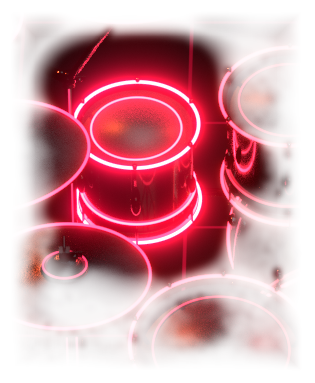
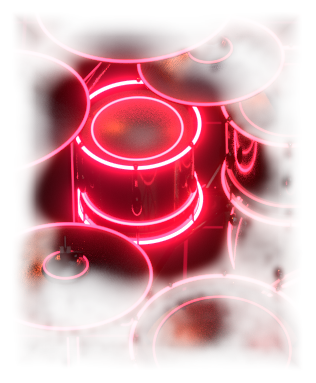
Release 0.89.0: the cymbals nearer the reference kit, CRASH 6, glowing boom arms
The owner compared the kit view with the reference picture and chose,
from mock-ups: every cymbal higher and tipped about 4 degrees towards the
drummer (the half tilt), crashes 4 and 5 moved in so the top reads as one
arc and mirrored exactly, each 6 cm above the crash beside it (a lower
outer crash would have sat on crash 1), the top row a little lower than
first drawn, the splash beside tom 1, and a 15" CRASH 6 top centre (the
C6 slot, zone 32, its own glow). Every cymbal stand's boom arm gets the
same neon strip as its lower tube.

kit3d.py / regions.py / process_assets.py know crash6; every picture was
rendered again. KitView::numPieces 22. KitViewTests check slot 32 is on
the kit and its own piece. Snapshot PARAGON_SNAPSHOT_KIT=5.

Claude-Session: https://claude.ai/code/session_01DkHHwE8pZtGpq78Kkzjpto

diff --git a/resources/kit/kit3d.py b/resources/kit/kit3d.py
@@ -478,22 +478,29 @@ def boom_cymbal(name, diameter, centre, tilt=(0.25, 0, 0), china=False, base=(0.
     box(name + " tilter", (0.024, 0.03, 0.035), (cx, cy, cz - 0.035), mat=SATIN)
     wing_nut(name + " tilter nut", (cx + 0.022, cy, cz - 0.035))
     rod(name + " stand boom", (bx, by, top), (cx, cy, cz - 0.05), r=0.0085)
+    lift = Vector((0, 0, 0.0085 + 0.002))   # the neon strip along the boom's top, as up the stand's tubes
+    rod(name + " stand boom strip", Vector((bx, by, top + 0.03)) + lift, Vector((cx, cy, cz - 0.07)) + lift, r=0.0015, mat=NEON_SOFT)
     collar(name + " stand boom", (bx, by, top), 0.0095)
     rod(name + " stand boom counterweight", (bx, by, top), (bx + 0.08 * out.x, by + 0.08 * out.y, top - 0.03), r=0.012)
 
 # Left of the hi-hat, low to high: the FX crash (holes), crash 1, crash 3; the splash over tom 1; crash 4 high behind;
 # crash 2 in the middle over the toms; crash 5 and 6 to the right; the china, the ride over the floor toms, china 2.
-boom_cymbal("CRASH", 0.406, (-0.741, 0.728, 1.35), tilt=(-0.05, -0.1, 0), base=(-0.95, 0.62))
-boom_cymbal("CRASH 2", 0.406, (-0.45, 0.54, 1.68), tilt=(-0.05, -0.05, 0), drop=0.45, base=(-0.6, 0.3))
+boom_cymbal("CRASH", 0.406, (-0.741, 0.728, 1.46), tilt=(0.025, -0.1, 0), base=(-0.95, 0.62))
+boom_cymbal("CRASH 2", 0.406, (-0.45, 0.54, 1.6), tilt=(0.025, -0.05, 0), drop=0.45, base=(-0.6, 0.3))
 # 0.74.0: the splash in the middle, over the gap between toms 2 and 3; crash 3 where the splash was, CRASH 2's twin.
-boom_cymbal("SPLASH", 0.305, (0.03, 0.22, 1.3), tilt=(-0.1, 0.0, 0), drop=0.45, base=(0.03, -0.62))
-boom_cymbal("CRASH 3", 0.406, (0.45, 0.54, 1.68), tilt=(-0.05, 0.05, 0), drop=0.75, base=(0.45, -0.30))
+# 0.89.0 (the owner, after comparing with the reference picture): every cymbal a little higher and tipped about 4 degrees
+# more towards the drummer, crashes 4 / 5 in so the top reads as one arc, the splash by tom 1, a 15" crash 6 top centre,
+# the top row 4 cm lower than first drawn (room at the picture's top); crashes 4 / 5 mirror each other, each 6 cm
+# above the crash beside it (a lower outer crash would sit on crash 1).
+boom_cymbal("SPLASH", 0.305, (-0.31, 0.25, 1.24), tilt=(0.025, -0.05, 0), drop=0.4, base=(-0.3, -0.62))
+boom_cymbal("CRASH 6", 0.38, (0.0, 0.3, 1.5), tilt=(0.025, 0.0, 0), drop=0.75, base=(0.05, -0.62))
+boom_cymbal("CRASH 3", 0.406, (0.45, 0.54, 1.6), tilt=(0.025, 0.05, 0), drop=0.75, base=(0.45, -0.30))
 # 0.87.0: crashes 4 and 5, one each side (the owner's choice after four mock-ups): crash 4 above crash 1, crash 5 above the
 # ride, both level with each other and a few cm clear of the cymbal under them; crash 5's stand kept off the hologram.
-boom_cymbal("CRASH 4", 0.406, (-0.875, 0.56, 1.55), tilt=(-0.05, -0.12, 0), drop=0.6, base=(-1.2, 0.05))
-boom_cymbal("CRASH 5", 0.406, (0.83, 0.56, 1.5), tilt=(-0.05, 0.12, 0), drop=0.6, base=(1.1, -0.15))
-boom_cymbal("RIDE", 0.52, (0.582, 0.61, 1.2), tilt=(-0.05, 0.08, 0), base=(0.95, 0.25))
-boom_cymbal("CHINA", 0.43, (0.792, 1.176, 1.3), tilt=(-0.05, 0.1, 0), china=True, base=(1.0, 1.15))
+boom_cymbal("CRASH 4", 0.406, (-0.82, 0.52, 1.66), tilt=(0.025, -0.12, 0), drop=0.6, base=(-1.2, 0.05))
+boom_cymbal("CRASH 5", 0.406, (0.82, 0.52, 1.66), tilt=(0.025, 0.12, 0), drop=0.6, base=(1.1, -0.15))
+boom_cymbal("RIDE", 0.52, (0.582, 0.61, 1.3), tilt=(0.025, 0.08, 0), base=(0.95, 0.25))
+boom_cymbal("CHINA", 0.43, (0.792, 1.176, 1.38), tilt=(0.025, 0.1, 0), china=True, base=(1.0, 1.15))
 
 # 0.71.0: THE PADS: an electronic pad unit of 6 pads (3 across, 2 deep) behind the floor tom, on its own stand, tipped
 # towards the drummer and turned to face the seat (the owner's idea, from a picture of another program's e-kit: our own
@@ -661,7 +668,7 @@ torus("KICK logo ring", 0.205, 0.003, (0, front_y, 0.29), rot=(math.pi / 2, 0, 0
 PIECES = ["kick:KICK", "kick:LOGO", "snare:SNARE", "tom1:TOM 1", "tom2:TOM 2", "tom3:TOM 3", "floor:FLOOR",
           "hihat:HI-HAT", "crash:CRASH", "crash2:CRASH 2", "ride:RIDE", "china:CHINA",
           "splash:SPLASH", "crash3:CRASH 3",   # (0.43.0: the 12 pieces the owner's sample pack records)
-          "crash4:CRASH 4", "crash5:CRASH 5",   # (0.87.0)
+          "crash4:CRASH 4", "crash5:CRASH 5", "crash6:CRASH 6",   # (0.88.0, 0.89.0)
           "pad1:PADS pad 1", "pad2:PADS pad 2", "pad3:PADS pad 3", "pad4:PADS pad 4", "pad5:PADS pad 5",
           "pad6:PADS pad 6"]   # (0.71.0: THE PADS, each its own piece: each glows when it plays; the unit's body none)
 PIECES.sort(key=lambda e: -len(e.split(":")[1]))
@@ -695,7 +702,7 @@ def zone_of(name):
     if piece.startswith("pad"):
         return 35 + int(piece[3:])                    # 0.71.0: PAD 1-6 are slots 36-41
     return {"kick": 0, "tom1": 9, "tom2": 7, "tom3": 5, "floor": 23, "crash": 11, "crash2": 14, "china": 15,
-            "splash": 16, "crash3": 29, "crash4": 30, "crash5": 31}[piece]
+            "splash": 16, "crash3": 29, "crash4": 30, "crash5": 31, "crash6": 32}[piece]
 
 def flat_emission(name, value, ride_split=False):
     m = bpy.data.materials.new(name)

diff --git a/tests/KitViewTests.cpp b/tests/KitViewTests.cpp
@@ -43,8 +43,8 @@ namespace
     // 0.37.0: the owner's bigger kit: tom 4 and 5 (the floor toms), crashes 3 to 6, the FX crash, china 2; no tambourine.
     // 0.43.0: the owner's 12-piece kit: crashes 3 to 6, the FX crash, china 2 and tom 5 left the picture.
     // 0.74.0: crash 3 (29) back, where the splash was (the splash in the middle).
-    // 0.87.0: crashes 4 (30) and 5 (31), one each side.
-    const std::vector<int> onTheKit { 0, 1, 2, 4, 5, 6, 7, 8, 9, 11, 12, 13, 14, 15, 16, 20, 23, 29, 30, 31,
+    // 0.88.0: crashes 4 (30) and 5 (31), one each side; 0.89.0: crash 6 (32) top centre.
+    const std::vector<int> onTheKit { 0, 1, 2, 4, 5, 6, 7, 8, 9, 11, 12, 13, 14, 15, 16, 20, 23, 29, 30, 31, 32,
                                      36, 37, 38, 39, 40, 41 };   // (0.71.0: THE PADS, each its own)
 
     // A pixel's hue in degrees, and whether it's coloured enough to count (the family's rule is about colours, not
@@ -101,7 +101,7 @@ TEST_CASE ("KIT VIEW: each drum on the kit has its part, the clap, tambourine an
     CHECK (KitView::pieceOf (18) == -1);   // (0.37.0: no tambourine in the bigger kit)
     // 0.37.0: each new piece its own; 0.43.0: the ones the owner's pack doesn't record left the picture.
     CHECK (KitView::pieceOf (23) != KitView::pieceOf (5));
-    for (const auto gone : { 32, 33, 34, 35 })
+    for (const auto gone : { 33, 34, 35 })
         CHECK (KitView::pieceOf (gone) == -1);
     // 0.74.0: crash 3 its own piece, apart from crash 1, crash 2 and the splash.
     for (const auto other : { 11, 14, 16 })
@@ -113,6 +113,9 @@ TEST_CASE ("KIT VIEW: each drum on the kit has its part, the clap, tambourine an
         CHECK (KitView::pieceOf (31) != KitView::pieceOf (other));
     }
     CHECK (KitView::pieceOf (30) != KitView::pieceOf (31));
+    // 0.89.0: crash 6 its own piece too.
+    for (const auto other : { 11, 12, 14, 15, 16, 29, 30, 31 })
+        CHECK (KitView::pieceOf (32) != KitView::pieceOf (other));
     CHECK (KitView::pieceOf (25) == KitView::pieceOf (11));   // a choke on its cymbal
     // The empty floor in the corners chooses nothing.
     CHECK (view.slotAt ({ 3.0f, 3.0f }) == -1);

diff --git a/tests/EditorSnapshot.cpp b/tests/EditorSnapshot.cpp
@@ -28,6 +28,7 @@
 //                                    PARAGON_SNAPSHOT_KIT=1: the kick, snare, crash and china just hit, glowing, the ride's bell chosen;
 //                                    PARAGON_SNAPSHOT_KIT=2: THE PADS 2 and 4 just hit, pad 2 chosen (0.71.0);
 //                                    PARAGON_SNAPSHOT_KIT=4: CRASH 4 and CRASH 5 just hit, crash 4 chosen (0.88.0);
+//                                    PARAGON_SNAPSHOT_KIT=5: CRASH 6 and the splash just hit, crash 6 chosen (0.89.0);
 //                                    PARAGON_SNAPSHOT_ARTIC=1: the hi-hat's articulations, OPEN 3 off, the pedal half open;
 //                                    PARAGON_SNAPSHOT_VELOCITY=1: the snare's VELOCITY curve and gate;
 //                                    PARAGON_SNAPSHOT_LAYERS=1: the snare's LAYERS (one aligned, one multi-mic);
@@ -367,6 +368,20 @@ TEST_CASE ("Render the editor to a PNG", "[.][snapshot]")
             processor.previewDrum (synth::drums::notemap::C4);
             processor.processBlock (buffer, midi);
             processor.previewDrum (synth::drums::notemap::C5);
+            for (int b = 0; b < 4; ++b)
+                processor.processBlock (buffer, midi);
+            drums.updateLights();
+        }
+        // 0.89.0: PARAGON_SNAPSHOT_KIT=5: CRASH 6 (top centre) and the splash (by tom 1) just hit, CRASH 6 chosen.
+        if (env ("PARAGON_SNAPSHOT_KIT") == "5")
+        {
+            drums.showView (DrumPage::View::kit);
+            drums.select (synth::drums::notemap::C6);
+            juce::AudioBuffer<float> buffer (2, 512);
+            juce::MidiBuffer midi;
+            processor.previewDrum (synth::drums::notemap::C6);
+            processor.processBlock (buffer, midi);
+            processor.previewDrum (synth::drums::notemap::SPL);
             for (int b = 0; b < 4; ++b)
                 processor.processBlock (buffer, midi);
             drums.updateLights();

diff --git a/source/ui/KitView.cpp b/source/ui/KitView.cpp
@@ -14,7 +14,8 @@ namespace
                                                               "crash", "crash2", "ride", "china", "splash",
                                                               "pad1", "pad2", "pad3", "pad4", "pad5", "pad6",   // (0.71.0)
                                                               "crash3",   // (0.74.0: where the splash was; the splash in the middle)
-                                                              "crash4", "crash5" };   // (0.87.0: one each side)
+                                                              "crash4", "crash5",   // (0.88.0: one each side)
+                                                              "crash6" };   // (0.89.0: top centre)
 
     // Each slot's piece (synth::drums::slotDefaults' order): BD, RIM, SD, CLP, SD2, LT, CH, MT, PH, HT, OH, CY,
     // RD, RB, CR2, CHN, SPL, HH, TMB, SHK, then 0.17.0's RE (the ride's edge), HO1 and HO3 (the hat's openness), then
@@ -23,7 +24,7 @@ namespace
     // are C3-C6, CFX, CH2 and T5 (they play their stand-ins: the owner's pack has none of them).
     constexpr int slotPieces[] = { 0, 1, 1, -1, 1, 4, 6, 3, 6, 2, 6, 7, 9, 9, 8, 10, 11, 6, -1, -1, 9, 6, 6,
                                    5, 6, 7, 8, 10, 11,
-                                   18, 19, 20, -1, -1, -1, -1,   // 0.74.0: C3 on the kit (CRASH 3); 0.87.0: C4, C5
+                                   18, 19, 20, 21, -1, -1, -1,   // 0.74.0: C3 on the kit (CRASH 3); 0.88.0: C4, C5; 0.89.0: C6
                                    12, 13, 14, 15, 16, 17 };   // 0.71.0: THE PADS, each pad its own piece (its own glow)
     static_assert (std::size (slotPieces) == synth::drums::numSlots);
 

diff --git a/resources/kit/regions.py b/resources/kit/regions.py
@@ -6,7 +6,7 @@ from PIL import Image
 PIECE_SLOTS = {"kick": [0], "snare": [1, 2, 4], "tom1": [9], "tom2": [7], "tom3": [5], "floor": [23],
                "hihat": [6, 8], "crash": [11], "crash2": [14], "ride": [12, 13], "china": [15], "splash": [16],  # (0.43.0)
                "crash3": [29],                                                                              # (0.74.0)
-               "crash4": [30], "crash5": [31],                                                              # (0.87.0)
+               "crash4": [30], "crash5": [31], "crash6": [32],                                                              # (0.87.0)
                "pad1": [36], "pad2": [37], "pad3": [38], "pad4": [39], "pad5": [40], "pad6": [41]}           # (0.71.0)
 m = np.array(Image.open(sys.argv[1]).convert("RGB"))[..., 0] / 255.0
 z = np.round(np.where(m <= 0.04045, m / 12.92, ((m + 0.055) / 1.055) ** 2.4) * 255.0 / 6.0).astype(int) - 1   # (0.71.0: step 6, for 42 slots)

diff --git a/resources/kit/process_assets.py b/resources/kit/process_assets.py
@@ -13,7 +13,8 @@ PIECES = ["kick", "snare", "tom1", "tom2", "tom3", "floor", "hihat", "crash", "c
           "splash",   # (0.43.0: the 12 pieces of the owner's sample pack)
           "pad1", "pad2", "pad3", "pad4", "pad5", "pad6",   # (0.71.0: THE PADS)
           "crash3",   # (0.74.0: crash 3 where the splash was, the splash in the middle)
-          "crash4", "crash5"]   # (0.87.0: one each side, above crash 1 and the ride)
+          "crash4", "crash5",   # (0.88.0: one each side, above crash 1 and the ride)
+          "crash6"]   # (0.89.0: top centre)
 LOW, HIGH = 330.0, 30.0     # the hues kept (degrees, through 0), inside the family's 318-42: JPEG drifts a few degrees
 
 def family_hues(rgb):

diff --git a/source/ui/KitView.h b/source/ui/KitView.h
@@ -23,7 +23,7 @@ public:
     // A click on a slot's part: DrumPage chooses it (and the view plays it).
     std::function<void (int slot, juce::ModifierKeys)> onChoose;
 
-    static constexpr int numPieces = 21;   // (12 until 0.37.0, 19 until 0.43.0, 12 until 0.71.0, 18 until 0.74.0, 19 until 0.87.0: + CRASH 4, 5)
+    static constexpr int numPieces = 22;   // (12 until 0.37.0, 19 until 0.43.0, 12 until 0.71.0, 18 until 0.74.0, 19 until 0.88.0, 21 until 0.89.0: + CRASH 6)
     static const char* pieceName (int piece) noexcept;   // "kick", "snare", ... (the pictures' names)
     static int pieceOf (int slot) noexcept;              // the piece a slot glows on, -1 for none (CLP, SHK)
 

diff --git a/CLAUDE.md b/CLAUDE.md
@@ -248,6 +248,8 @@ Seen in 0.1.0, for later (corrected in 0.2.0): a drum voice ends when its level 
 
 **0.88.0: CRASH 4 and CRASH 5 on the KIT VIEW** (the owner: two more crashes "in the blue circles", after four mock-ups: Option B, brought down near crash 1 / the ride, then 5 cm back up, levelled, crash 5's stand moved off the right hologram). `kit3d.py`: CRASH 4 0.406 at (-0.875, 0.56, 1.55) base (-1.2, 0.05), CRASH 5 at (0.83, 0.56, 1.5) base (1.1, -0.15) (before the mirror: crash 4 on the picture's left above crash 1, crash 5 on the right above the ride); PIECES crash4 / crash5, `zone_of` 30 / 31; `regions.py`, `process_assets.py`. `KitView::numPieces` 21 (`pieceNames` + crash4, crash5; `slotPieces` C4 -> 19, C5 -> 20), `litcrash4.png` / `litcrash5.png` (CMake). Every picture rendered again (mock-ups at 24 samples in ~1 min each; the real set ~45 min). Tests: `KitViewTests` (30, 31 on the kit, each its own piece). Snapshot: `PARAGON_SNAPSHOT_KIT=4` (crashes 4 and 5 just hit, crash 4 chosen).
 
+**0.89.0: the cymbals nearer the reference, CRASH 6, glowing boom arms** (the owner compared the kit view with the reference picture; my suggestions 1-4 as mock-ups, "1-4 with the top bar just a tiny bit lower", "the glow ... also on the arm", "half tilt", the outer crashes matched). `kit3d.py`: every boom cymbal's tilt x 0.025 (was -0.05: positive tips the face towards the camera; -0.18 made them flatter, +0.1 too heavy), z up (crash 1.46, crashes 2 / 3 1.6, ride 1.3, china 1.38), crashes 4 / 5 mirrored at (-+0.82, 0.52, 1.66) (6 cm above crashes 2 / 3: the owner asked for them to match; stepping them down instead buried crash 1), the splash (-0.31, 0.25, 1.24) by tom 1, CRASH 6 0.38 at (0, 0.3, 1.5) base (0.05, -0.62); `boom_cymbal` adds "<name> stand boom strip" (NEON_SOFT along the boom's top: "stand", so no click zone). PIECES crash6, `zone_of` 32; `regions.py`, `process_assets.py`. `KitView::numPieces` 22 (crash6, `slotPieces` C6 -> 21), `litcrash6.png`. Tests: `KitViewTests` (32 on the kit, its own piece). Snapshot: `PARAGON_SNAPSHOT_KIT=5` (crash 6 and the splash just hit, crash 6 chosen).
+
 ## Rules (from the owner and the family's CLAUDE.md files)
 
 - **Names:** our own designs, "inspired by"; no Toontrack, Superior Drummer, EZdrummer or Vengeance / Avenger names or branding on the plugin. Toontrack's grooves, sounds and tags are never shipped: the user's own MIDI packs (and, since 0.15.0, their `midiDB` groove databases) are read from their computer when loaded. Never get round copy protection.

diff --git a/CHANGELOG.md b/CHANGELOG.md
@@ -2,6 +2,26 @@
 
 Each version's notes appear on its GitHub Release page.
 
+## 0.89.0
+
+- **The cymbals placed closer to the reference kit**, as you chose from the mock-ups:
+  - **Higher:** every cymbal sits higher, with clear air between the toms and the cymbals. The top row is a few
+    centimetres lower than in the first mock-up, so it doesn't touch the top of the picture.
+  - **One arc:** crashes 4 and 5 moved in, so they overlap crash 2 and crash 3. The top now reads as one continuous
+    fan from left to right.
+  - **The two sides match:** crash 4 and crash 5 now mirror each other exactly, each sitting a few centimetres above
+    the crash beside it. Before, the left one sat level with its neighbour and the right one lower.
+  - **Tipped towards you:** each cymbal is angled about 4 degrees more towards the drummer (the half tilt), so you see
+    a bit more of its top and its cone.
+  - **The splash moved** down beside tom 1.
+  - **CRASH 6** (15") is new, in the middle of the top row: five cymbals across. Click it to choose it and hear it; it
+    glows when it plays. It's the crash 6 drum slot that was already there (note 32 in GROOVE LIBRARY, its mute hit
+    107). If that slot is switched off, it plays crash 2 instead, and crash 2 glows.
+- **The cymbal stands' arms glow** like their lower tubes now: a neon strip along the top of each boom arm, on every
+  cymbal stand (crashes, ride, china, splash). Most arms sit under their cymbal from this angle, so it shows most on
+  the outer stands.
+- The whole kit was rendered again; the drums didn't move.
+
 ## 0.88.0
 
 - **Two more crashes on the KIT VIEW, one each side**, laid out with you over four mock-ups:
